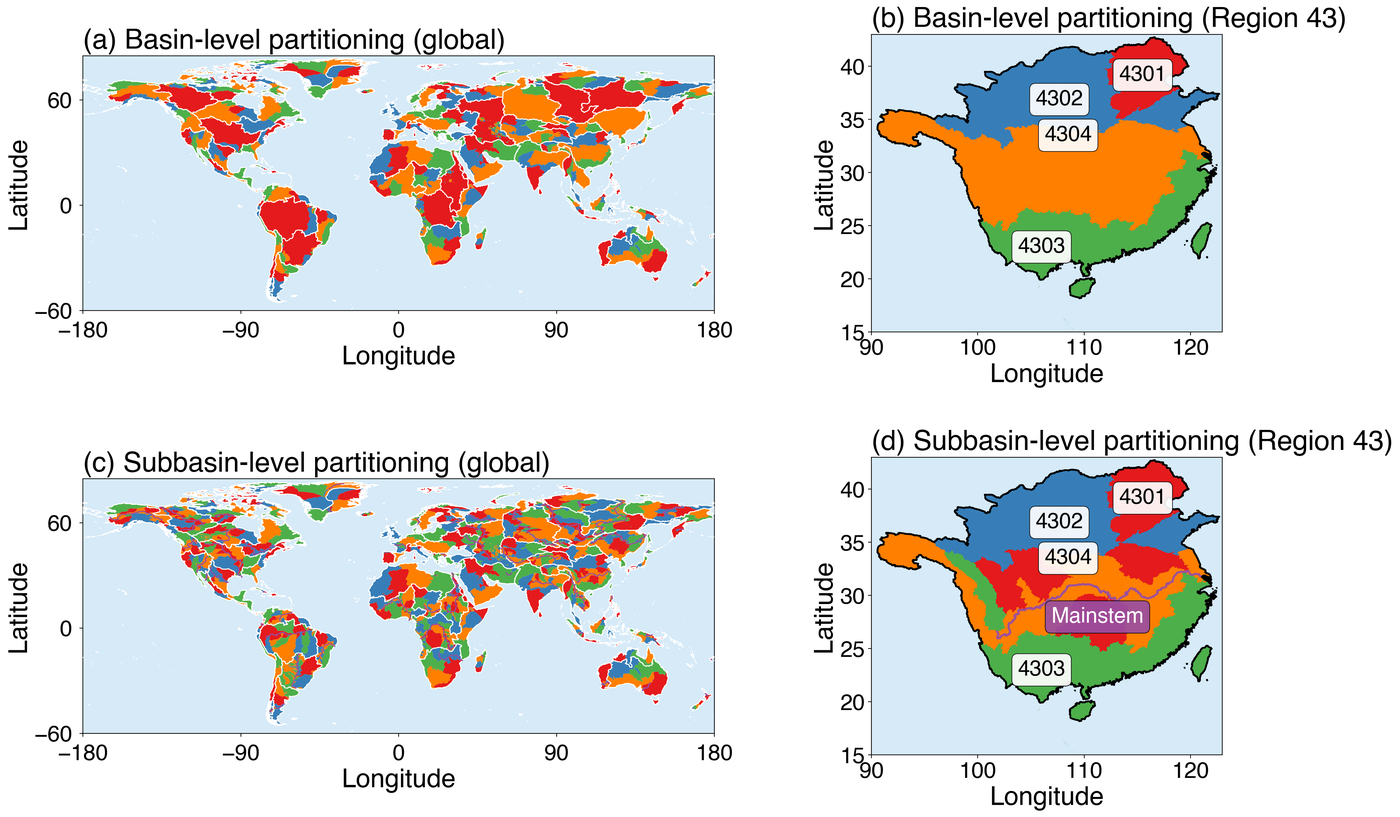
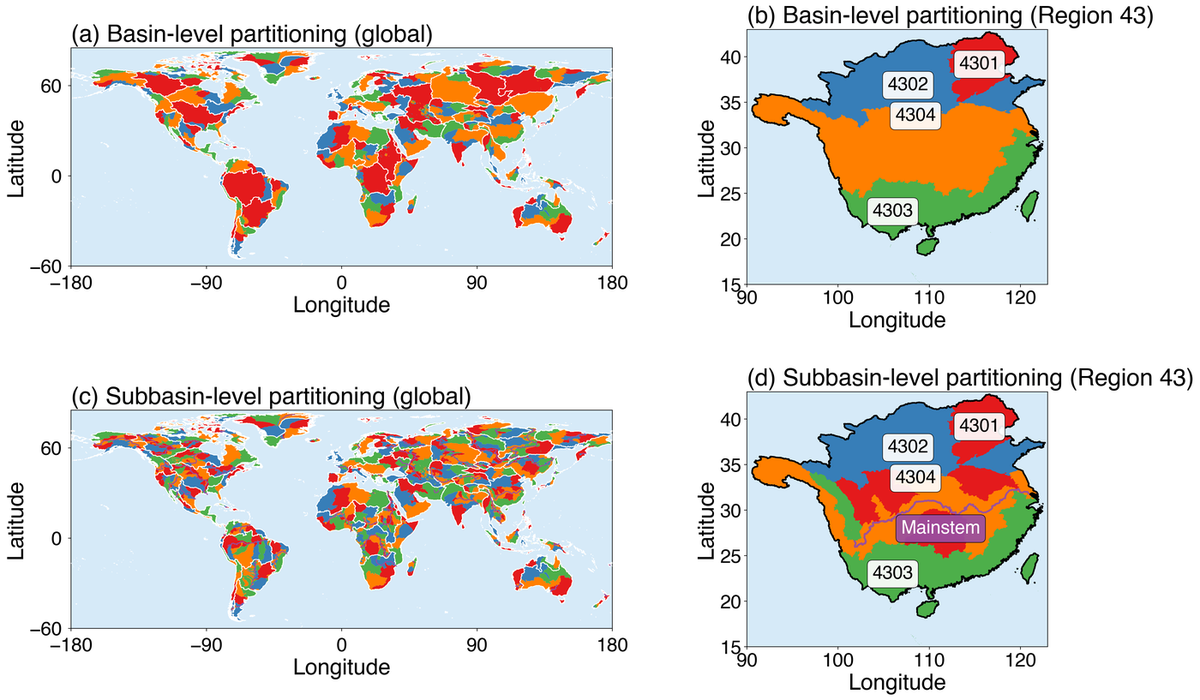
Say where the input grid comes from, since it is not redistributed here
A reader who wants to recompute anything, or to use a released structure on
real data, needs the MERIT Hydro flow-direction grid. Only the example basin
travels with this repository. The new section points at the authors' own
download, gives the grid's extent and tiling, and shows the two ways to work
with it: a hydrological region at a time, which is what keeps cell indices
inside 32-bit integers, or one basin at a time.

It also states the one rule that matters when clipping. A subset of whole
basins keeps the ordering valid, because removing downstream cells cannot
change what upstream cells depend on; an arbitrary rectangle turns the cells
on the cut into pits and loses the drainage area beyond it.

The three global maps now share a width.

Claude-Session: https://claude.ai/code/session_01EuUexTPtXyroM1RXwjCWg7

Changed region(s): [[0.1233, 0.66, 0.1542, 0.69]]

diff --git a/README.md b/README.md
@@ -230,6 +230,41 @@ too, which matters because 255 means a terminal here, not nodata.
 python example.py --data my_dir.tif
 ```
 
+## Getting the input data
+
+The structures are indexed against the MERIT Hydro 90 m flow-direction grid,
+cell for cell. To recompute anything, or to use a released structure on real
+data, you need that grid, and it is **not redistributed here**: get it from its
+authors at <http://hydro.iis.u-tokyo.ac.jp/~yamadai/MERIT_Hydro/>, under the
+CC BY-NC 4.0 terms they set. Only the 731 km² example basin travels with this
+repository, under the same terms.
+
+The global grid spans 180° W to 180° E and 85° N to 60° S: about 174,000 rows
+by 432,000 columns, 75.17 billion cells, of which 22.24 billion are land. It is
+distributed as 5° × 5° tiles.
+
+Two ways to work with it:
+
+**A region at a time.** Mosaic the tiles that cover one of the 65 hydrological
+regions and run the structures on that. A region encloses only complete basins
+and stays within 38° × 38°, which keeps its cell indices inside 32-bit
+integers — the same reason this package uses int32 throughout. The region
+boundaries come from MERIT-FullBasin, below.
+
+```python
+import flowtopo
+topo = flowtopo.FlowTopo.from_raster("region43_dir.tif")
+upa  = topo.upstream_area(ordering="dfs")
+```
+
+**One basin at a time.** Clip whatever basin you care about, as the bundled
+example was clipped, and run the same code. A clipped subset stays valid:
+removing downstream cells does not change what its upstream cells depend on.
+
+Whole basins or whole regions, never an arbitrary rectangle — a cut through
+the middle of a basin turns the cells on the cut into pits, and the drainage
+area beyond it is simply gone.
+
 ## Global products
 
 This repository holds the method and one example basin. Applied to the whole
